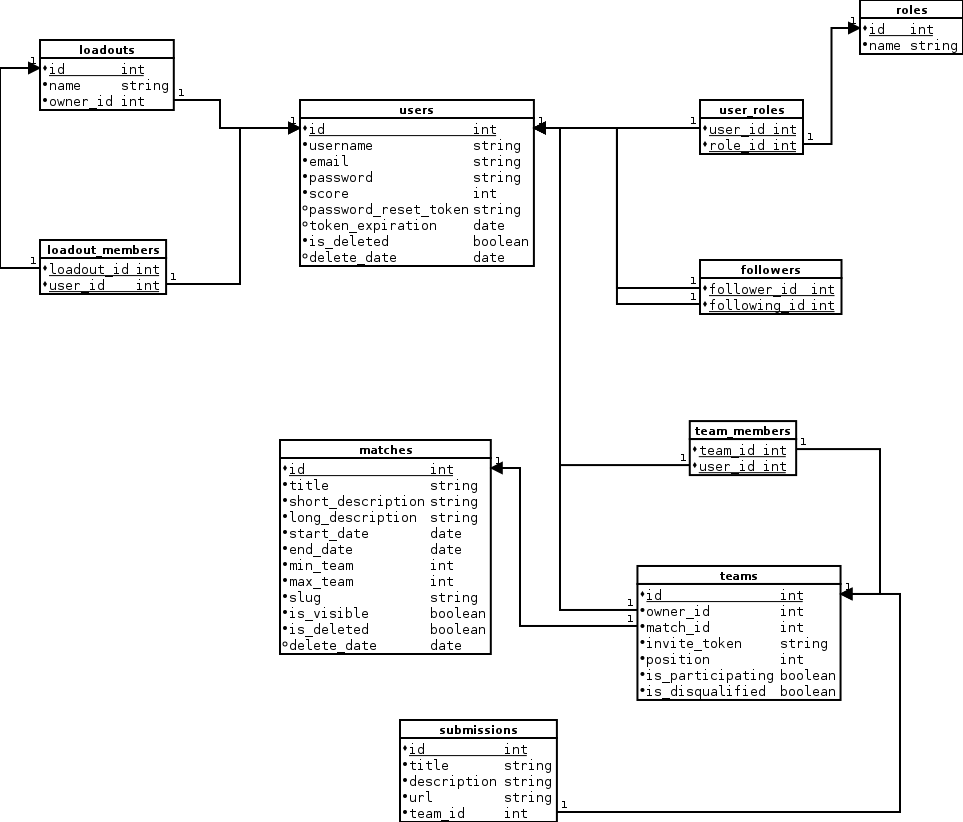
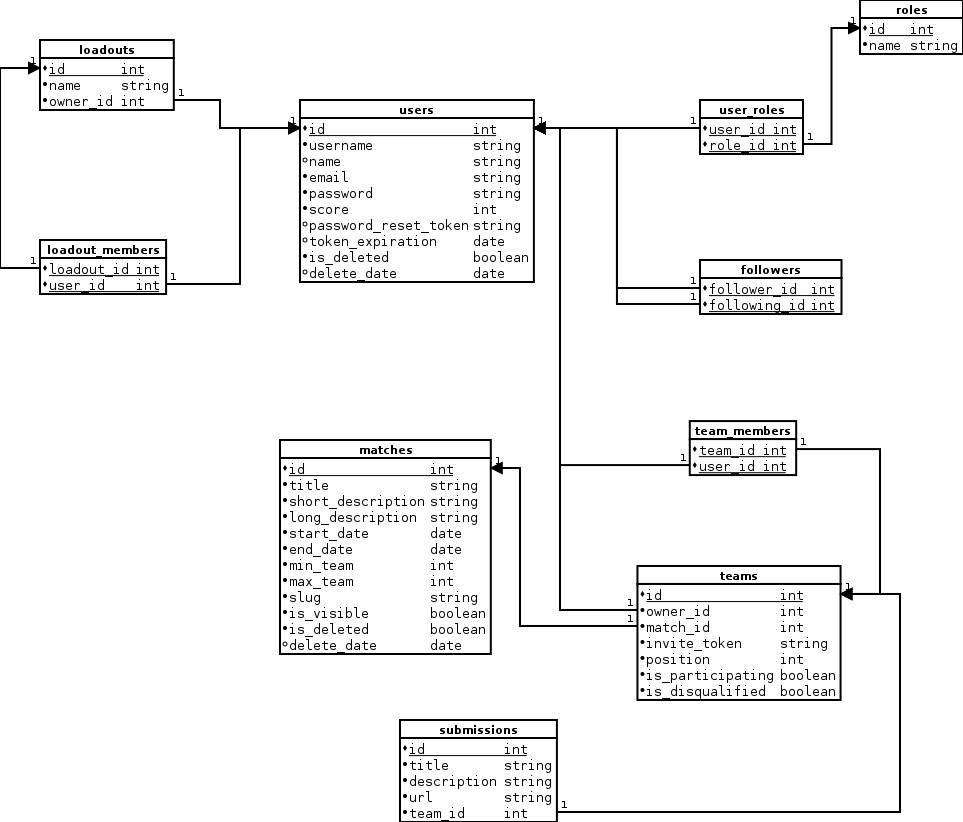
Generated gh-pages for commit 0f59139 Author: Rafael Medina <rafamedgar@gmail.com>
Specified JSend in API, added "name" to User model, now using PUT and DELETE requests

Changed region(s): [[0.3115, 0.1825, 0.5607, 0.365]]

diff --git a/searchindex.js b/searchindex.js
@@ -1,1 +1,1 @@
-Search.setIndex({envversion:50,filenames:["api/admin/index","api/admin/match_details","api/admin/match_update","api/admin/matches","api/index","api/matches/index","api/matches/match_details","api/matches/match_enter","api/matches/matches","api/users/friends","api/users/friends_accept","api/users/friends_add","api/users/index","api/users/login","api/users/profile","api/users/profile_edit","api/users/reset_password","api/users/reset_password_token","api/users/signup","api/users/user","api/users/user_matches","db_relations","index","models/index","models/loadout","models/match","models/role","models/submission","models/team","models/user"],objects:{"":{"/admin/matches":[3,0,1,"get--admin-matches"],"/admin/matches/(int: id)":[1,0,1,"get--admin-matches-(int- id)"],"/admin/matches/(int: id)/update":[2,1,1,"post--admin-matches-(int- id)-update"],"/login":[13,1,1,"post--login"],"/matches":[8,0,1,"get--matches"],"/matches/(int: id)":[6,0,1,"get--matches-(int- id)"],"/matches/(int: id)/enter":[7,1,1,"post--matches-(int- id)-enter"],"/profile":[14,0,1,"get--profile"],"/profile/edit":[15,1,1,"post--profile-edit"],"/profile/friends":[9,0,1,"get--profile-friends"],"/profile/friends/accept/(string: token)":[10,1,1,"post--profile-friends-accept-(string- token)"],"/profile/friends/add":[11,1,1,"post--profile-friends-add"],"/reset-password":[16,1,1,"post--reset-password"],"/reset-password/(string: token)":[17,1,1,"post--reset-password-(string- token)"],"/signup":[18,1,1,"post--signup"],"/users/(string: username)":[19,0,1,"get--users-(string- username)"],"/users/(string: username)/matches":[20,0,1,"get--users-(string- username)-matches"],Loadout:[24,2,1,""],Match:[25,2,1,""],Role:[26,2,1,""],Team:[28,2,1,""],User:[29,2,1,""]},Loadout:{id:[24,3,1,""],name:[24,3,1,""],owner_id:[24,3,1,""]},Match:{delete_date:[25,3,1,""],end_date:[25,3,1,""],id:[25,3,1,""],is_deleted:[25,3,1,""],is_visible:[25,3,1,""],long_description:[25,3,1,""],max_team:[25,3,1,""],min_team:[25,3,1,""],short_description:[25,3,1,""],slug:[25,3,1,""],start_date:[25,3,1,""],title:[25,3,1,""]},Role:{id:[26,3,1,""],name:[26,3,1,""]},Team:{description:[27,3,1,""],id:[28,3,1,""],invite_token:[28,3,1,""],is_disqualified:[28,3,1,""],is_participating:[28,3,1,""],match_id:[28,3,1,""],owner_id:[28,3,1,""],position:[28,3,1,""],team_id:[27,3,1,""],title:[27,3,1,""],url:[27,3,1,""]},User:{delete_date:[29,3,1,""],email:[29,3,1,""],id:[29,3,1,""],is_deleted:[29,3,1,""],password:[29,3,1,""],password_reset_token:[29,3,1,""],score:[29,3,1,""],token_expiration:[29,3,1,""],username:[29,3,1,""]}},objnames:{"0":["http","get","HTTP get"],"1":["http","post","HTTP post"],"2":["py","class","Python class"],"3":["py","attribute","Python attribute"]},objtypes:{"0":"http:get","1":"http:post","2":"py:class","3":"py:attribute"},terms:{"15t18":[1,2,3,6,8],"23t18":[1,2,3,6,8],"511z":[1,2,3,6,8],"boolean":[1,2,3,25,28,29],"case":28,"class":[24,25,26,27,28,29],"int":[1,2,3,6,7,8,14,19,20,24,25,26,27,28,29],"long":[1,2,6,25,29],"new":[10,11,15,17,18,29],"public":[1,2,3],"return":[1,2,3,6,8,9,13,15,19,20],"short":[6,25],"true":[2,28],"try":27,abl:28,about:11,accept:[1,2,3,4,6,7,8,9],accordingli:25,account:29,activ:[1,2,3,7,9,10,11,13,14,15],actual:25,add:[4,7],addit:[25,27],address:[15,29],administr:[25,26,29],advantag:25,after:[25,28],all:7,alreadi:[6,15,18],also:[17,18],although:[3,8],alwai:[3,8],ani:25,applic:[1,2,3,6,7,8,9,10,11,13,14,15,16,17,18,19,20],associ:11,automat:[18,28],avail:7,basic:27,been:[9,10,11,14,15,16,17,25,28,29],begin:25,behind:27,both:10,can:[11,15,16,25,28,29],certain:[26,29],chang:17,charact:29,check:[26,29],choos:24,code:[1,2,3,6,7,8,9,10,11,13,14,15,16,17,18,19,20,27],com:[1,2,3,6,7,8,9,10,11,13,14,15,16,17,18,19,20],commun:[15,28,29],complet:[1,6],conflict:[15,18],contain:[25,27],content:[1,2,3,6,7,8,9,10,11,13,14,15,16,17,18,19,20,22],contest:25,correctli:18,coupl:28,creat:[7,11,18,24,25,28],creation:28,creativ:27,credenti:13,current:[3,8,9,14,15],currentus:14,date:[1,2,3,6,8,16,25,29],delet:[1,2,3,6,8,19,20,25,29],delete_d:[25,29],demand:[7,29],desc:6,descript:[1,2,6,25,27],detail:[1,2,6,14,25],direct:24,disqualifi:28,doe:[1,2,3,8,10,11,16,17],done:29,each:[1,2,6,7,24,25,26,28],edit:[4,12],email:[15,16,18,29],empti:[3,6,8,9],enabl:[1,2,6],end:[1,2,3,6,8,25],end_dat:[1,2,3,6,8,25],endpoint:29,enjoi:24,enter:[4,5],error:7,evalu:25,evaluat:25,exampl:[1,2,3,6,7,8,9,10,11,13,14,15,16,17,18,19,20],except:7,exist:[10,11,14,15,16,17,18],expir:[16,29],fals:[1,3,13],flag:28,follow:[24,28,29],forbidden:[16,17],foreign:[24,27,28],forgot:16,found:[1,2,6,9,10,11,14,15,16,17,19,20],friend:4,frienda:[9,11],friendb:9,from:[13,17,25],full:25,gener:29,get:[1,3,6,8,9,10,11,14,15,17,19,20],give:28,given:[17,24,25,28],greater:28,hash:29,have:[1,2,3,7,8,29],host:[1,2,3,6,7,8,9,10,11,13,14,15,16,17,18,19,20],http:[1,2,3,6,7,8,9,10,11,13,14,15,16,17,18,19,20],idea:27,idealli:25,imag:9,includ:[27,28,29],index:22,indic:28,info:15,inform:[10,15,19,20,25,27],instruct:27,invis:8,invit:[7,11,24,28],invite_token:28,is_delet:[25,29],is_disqualifi:28,is_particip:28,is_vis:25,join:28,json:[1,2,3,6,7,8,9,10,11,13,14,15,16,17,18,19,20],jwt:[1,2,3,7,9,10,11,13,14,15,29],jwt_token:[1,2,3,7,9,10,11,13,14,15],kei:[24,25,26,27,28,29],languag:25,link:[16,24],list:[3,7,8,9],littl:25,loadout:[22,23],loadout_memb:24,log:[7,9,10,11,14,15,16,17],login:[4,12],long_descript:[6,25],mai:[3,8,9,24,27],main:25,mainli:28,manag:29,markdown:[1,2,6],match:0,match_id:28,max:25,max_team:[1,2,6,25,28],maximum:[1,2,6,25],mean:29,member:[7,28],meta:27,min_team:[1,2,6,25,28],minimum:[1,2,6,25,28],model:[16,22],modifi:2,modul:22,moment:25,more:25,must:[16,29],my_email:18,my_token:17,mypassword:[13,18],name:[14,15,19,24,26],need:7,newmail:15,note:29,notifi:11,number:[1,2,6,25,28],object:[1,2,3,6,7,8,9,10,11,13,14,15,16,17,18,19,20],obtain:[1,3,6,8,9,10,13,14,15,19,20,29],onc:28,onli:[25,28],only:7,oper:[26,29],oppos:25,order:[24,25],other:[24,28,29],over:28,own:27,owner:[24,28],owner_id:[24,28],page:22,paramet:[1,2,6,7,10,17,19,20],part:[7,25],particip:[1,2,6,7,20,25,28,29],password:[4,12,13],password_reset_token:[16,29],perform:[18,26,29],period:25,place:[3,8],platform:[25,29],png:9,point:[14,19,25],posit:28,post:[2,7,10,11,13,15,16,17,18],practic:[1,2,3,6,8,20],prepar:25,present:27,pretti:25,primari:[24,25,26,27,28,29],problem:25,process:[24,28],profil:4,program:25,project:27,provid:[15,25],publish:25,purpos:28,reach:28,real:[14,15,19],receiv:7,recogn:26,record:[1,2,6,9,10,11,14,15,16,17,18,19,20,24,25,28,29],regist:[25,29],reject:11,relationship:[24,28,29],remain:13,remember_m:13,remov:[9,10,11,14,15,16,17],repositori:27,repres:26,request:[1,2,3,6,7,8,9,10,11,13,14,15,16,17,18,19,20],requir:[1,2,3,13,15],reset:[4,12],resourc:13,respons:[1,2,3,6,8,9,10,11,13,14,15,16,17,18,19,20],rest:[13,24],restor:29,role:[1,2,3,22,23],rule:25,same:24,score:[14,19,25,29],search:22,see:[25,29],send:[16,24],sent:16,server:[13,18],session:[1,2,3,7,9,10,11,13,14,15,16,29],set:[16,28],short_descript:[6,25],should:[11,13,16,25,28],show:[19,20,25,27],shown:25,signup:[4,12],singl:28,site:27,slug:25,soft:[25,29],solut:25,sourc:27,special:28,specif:[17,25,28],specifi:18,start:[1,2,3,6,8,13,16,25],start_dat:[1,2,3,6,8,25],statu:[1,2,3,6,7,8,9,10,11,13,14,15,16,17,18,19,20],store:[15,29],string:[1,2,3,6,7,8,9,10,11,13,14,15,16,17,18,19,20,24,25,26,27,28,29],submiss:[22,23,25],submit:[25,27],successfulli:17,system:26,take:[3,8],taken:[3,8],task:26,team:[1,2,6,7,22,23,24,25,27],team_id:27,team_memb:28,technolog:25,templat:24,test:19,test_us:[13,18],testus:[19,20],than:28,thei:[11,24,28],them:24,thi:[1,2,6,11,17,25,26,27,28,29],three:25,through:29,time:[25,28,29],titl:[1,2,3,6,8,20,25,27],todo:7,token:[1,2,3,4,7,9],token_expir:29,topic:25,total:[14,19,29],type:[1,2,3,6,7,8,9,10,11,13,14,15,16,17,18,19,20],unauthor:[1,2,3,7,9,10,11,13,15],uniqu:[1,2,3,6,7,8,16,17,18,20,24,25,26,27,28,29],unless:6,until:25,updat:0,update:15,updated:2,url:[9,25,27],user1:7,user2:7,user3:7,user:[1,2,3,4,7,9,10,11],user_rol:29,usernam:[7,9,10,11,13,14,18,19,20,29],valid:[13,17],veri:25,view:25,visibl:[1,2,3,25],wai:11,when:[1,2,3,6,7,9,10,11,13,14,15,16,17,18,19,20,24,25,26,28,29],whether:[1,2,3,13,25,29],which:[10,13,16,19,20,28,29],without:7,work:[11,24]},titles:["Admin API","/admin/matches/&lt;id&gt;","/admin/matches/&lt;id&gt;/update","/admin/matches","LoC API","Matches API","/matches/&lt;id&gt;","/matches/&lt;id&gt;/enter","/matches","/profile/friends","/profile/friends/accept/&lt;token&gt;","/profile/friends/add","Users API","/login","/profile","/profile/edit","/reset-password","/reset-password/&lt;token&gt;","/signup","/users/&lt;user&gt;","/users/&lt;user&gt;/matches","Database relations","Welcome to LoC&#8217;s documentation!","LoC Models","Loadout","Match","Role","Submission","Team","User"],titleterms:{accept:10,add:11,admin:[0,1,2,3],api:[0,4,5,12],databas:21,document:22,edit:15,enter:7,friend:[9,10,11],indice:22,loadout:24,loc:[4,22,23],login:13,match:[1,2,3,5,6,7,8,20,25],model:23,password:[16,17],profil:[9,10,11,14,15],relat:21,reset:[16,17],role:26,signup:18,submiss:27,tabl:22,team:28,token:[10,17],updat:2,user:[12,19,20,29],welcom:22}})
+Search.setIndex({envversion:50,filenames:["api/admin/index","api/admin/match_details","api/admin/match_update","api/admin/matches","api/index","api/matches/index","api/matches/match_details","api/matches/match_enter","api/matches/matches","api/users/friends","api/users/friends_accept","api/users/friends_add","api/users/index","api/users/login","api/users/profile","api/users/reset_password","api/users/reset_password_token","api/users/signup","api/users/user","api/users/user_matches","db_relations","index","models/index","models/loadout","models/match","models/role","models/submission","models/team","models/user"],objects:{"":{"/admin/matches":[3,0,1,"get--admin-matches"],"/admin/matches/(int: id)":[1,0,1,"get--admin-matches-(int- id)"],"/admin/matches/(int: id)/update":[2,1,1,"post--admin-matches-(int- id)-update"],"/login":[13,1,1,"post--login"],"/matches":[8,0,1,"get--matches"],"/matches/(int: id)":[6,0,1,"get--matches-(int- id)"],"/matches/(int: id)/enter":[7,1,1,"post--matches-(int- id)-enter"],"/profile":[14,0,1,"get--profile"],"/profile/friends":[9,0,1,"get--profile-friends"],"/profile/friends/accept/(string: token)":[10,1,1,"post--profile-friends-accept-(string- token)"],"/profile/friends/add":[11,1,1,"post--profile-friends-add"],"/reset-password":[15,1,1,"post--reset-password"],"/reset-password/(string: token)":[16,1,1,"post--reset-password-(string- token)"],"/signup":[17,1,1,"post--signup"],"/users/(string: username)":[18,0,1,"get--users-(string- username)"],"/users/(string: username)/matches":[19,0,1,"get--users-(string- username)-matches"],Loadout:[23,2,1,""],Match:[24,2,1,""],Role:[25,2,1,""],Team:[27,2,1,""],User:[28,2,1,""]},Loadout:{id:[23,3,1,""],name:[23,3,1,""],owner_id:[23,3,1,""]},Match:{delete_date:[24,3,1,""],end_date:[24,3,1,""],id:[24,3,1,""],is_deleted:[24,3,1,""],is_visible:[24,3,1,""],long_description:[24,3,1,""],max_team:[24,3,1,""],min_team:[24,3,1,""],short_description:[24,3,1,""],slug:[24,3,1,""],start_date:[24,3,1,""],title:[24,3,1,""]},Role:{id:[25,3,1,""],name:[25,3,1,""]},Team:{description:[26,3,1,""],id:[27,3,1,""],invite_token:[27,3,1,""],is_disqualified:[27,3,1,""],is_participating:[27,3,1,""],match_id:[27,3,1,""],owner_id:[27,3,1,""],position:[27,3,1,""],team_id:[26,3,1,""],title:[26,3,1,""],url:[26,3,1,""]},User:{delete_date:[28,3,1,""],email:[28,3,1,""],id:[28,3,1,""],is_deleted:[28,3,1,""],name:[28,3,1,""],password:[28,3,1,""],password_reset_token:[28,3,1,""],score:[28,3,1,""],token_expiration:[28,3,1,""],username:[28,3,1,""]}},objnames:{"0":["http","get","HTTP get"],"1":["http","post","HTTP post"],"2":["py","class","Python class"],"3":["py","attribute","Python attribute"]},objtypes:{"0":"http:get","1":"http:post","2":"py:class","3":"py:attribute"},terms:{"15t18":[1,2,3,6,8],"23t18":[1,2,3,6,8],"511z":[1,2,3,6,8],"boolean":[1,2,3,24,27,28],"case":27,"class":[23,24,25,26,27,28],"default":4,"int":[1,2,3,6,7,8,14,18,19,23,24,25,26,27,28],"long":[1,2,6,24,28],"new":[10,11,16,17,28],"public":[1,2,3],"return":[1,2,3,4,6,8,9,13,18,19],"short":[6,24],"true":[2,27],"try":26,abl:27,about:11,accept:[1,2,3,4,6,7,8,9],accord:4,accordingli:24,account:28,activ:[1,2,3,7,9,10,11,13,14],actual:24,add:[4,7],addit:[24,26],address:28,administr:[24,25,28],advantag:24,after:[24,27],all:7,alreadi:[6,17],also:[16,17],although:[3,8],alwai:[3,8],ani:24,apart:4,applic:[1,2,3,6,7,8,9,10,11,13,14,15,16,17,18,19],associ:11,automat:[17,27],avail:7,basic:26,been:[9,10,11,14,15,16,24,27,28],begin:24,behind:26,both:10,can:[11,15,24,27,28],certain:[25,28],chang:16,charact:28,check:[25,28],choos:23,code:[1,2,3,4,6,7,8,9,10,11,13,14,15,16,17,18,19,26],com:[1,2,3,4,6,7,8,9,10,11,13,14,15,16,17,18,19],commun:[27,28],complet:[1,6],conflict:17,contain:[24,26],content:[1,2,3,6,7,8,9,10,11,13,14,15,16,17,18,19,21],contest:24,correctli:17,coupl:27,creat:[7,11,17,23,24,27],creation:27,creativ:26,credenti:13,current:[3,8,9,14],currentus:14,date:[1,2,3,6,8,15,24,28],delet:[1,2,3,6,8,18,19,24,28],delete_d:[24,28],demand:[7,28],desc:6,descript:[1,2,6,24,26],detail:[1,2,6,14,24],direct:23,displai:4,disqualifi:27,doe:[1,2,3,8,10,11,15,16],done:28,each:[1,2,4,6,7,23,24,25,27],email:[15,17,28],empti:[3,6,8,9],enabl:[1,2,6],end:[1,2,3,6,8,24],end_dat:[1,2,3,6,8,24],endpoint:[4,28],english:4,enjoi:23,enter:[4,5],error:[4,7],evalu:24,evaluat:24,exampl:[1,2,3,6,7,8,9,10,11,13,14,15,16,17,18,19],except:7,exist:[10,11,14,15,16,17],expir:[15,28],fail:4,fals:[1,3,13],flag:27,follow:[4,23,27,28],forbidden:[15,16],foreign:[23,26,27],forgot:15,found:[1,2,4,6,9,10,11,14,15,16,18,19],friend:4,frienda:[9,11],friendb:9,from:[4,13,16,24],full:24,gener:28,get:[1,3,6,8,9,10,11,14,16,18,19],give:27,given:[16,23,24,27],greater:27,hash:28,have:[1,2,3,7,8,28],header:4,host:[1,2,3,6,7,8,9,10,11,13,14,15,16,17,18,19],http:[1,2,3,4,6,7,8,9,10,11,13,14,15,16,17,18,19],idea:26,idealli:24,imag:9,includ:[26,27,28],index:21,indic:27,inform:[10,18,19,24,26],instruct:26,invis:8,invit:[7,11,23,27],invite_token:27,is_delet:[24,28],is_disqualifi:27,is_particip:27,is_vis:24,join:27,jsend:4,json:[1,2,3,6,7,8,9,10,11,13,14,15,16,17,18,19],jwt:[1,2,3,7,9,10,11,13,14,28],jwt_token:[1,2,3,7,9,10,11,13,14],kei:[23,24,25,26,27,28],lab:4,languag:24,link:[15,23],list:[3,7,8,9],littl:24,loadout:[21,22],loadout_memb:23,local:4,log:[7,9,10,11,14,15,16],login:[4,12],long_descript:[6,24],mai:[3,8,9,23,26],main:24,mainli:27,manag:28,markdown:[1,2,6],match:0,match_id:27,max:24,max_team:[1,2,6,24,27],maximum:[1,2,6,24],mean:28,member:[7,27],messag:4,meta:26,min_team:[1,2,6,24,27],minimum:[1,2,6,24,27],model:[15,21],modifi:2,modul:21,moment:24,more:24,must:[15,28],my_email:17,my_token:16,mypassword:[13,17],name:[14,18,23,25,28],need:[4,7],note:28,notifi:11,number:[1,2,6,24,27],object:[1,2,3,6,7,8,9,10,11,13,14,15,16,17,18,19],obtain:[1,3,6,8,9,10,13,14,18,19,28],omniti:4,onc:27,onli:[24,27],only:7,oper:[25,28],oppos:24,option:28,order:[23,24],other:[23,27,28],otherwis:4,over:27,own:26,owner:[23,27],owner_id:[23,27],page:21,paramet:[1,2,6,7,10,16,18,19],part:[7,24],particip:[1,2,6,7,19,24,27,28],password:[4,12,13],password_reset_token:[15,28],perform:[17,25,28],period:24,place:[3,8],platform:[24,28],png:9,point:[14,18,24],posit:27,possibl:4,post:[2,7,10,11,13,15,16,17],practic:[1,2,3,6,8,19],prepar:24,present:26,pretti:24,primari:[23,24,25,26,27,28],problem:24,process:[23,27],profil:4,program:24,project:26,provid:24,publish:24,purpos:27,reach:27,real:[14,18,28],receiv:7,recogn:25,record:[1,2,6,9,10,11,14,15,16,17,18,19,23,24,27,28],regist:[24,28],reject:11,relationship:[23,27,28],remain:13,remember_m:13,remov:[9,10,11,14,15,16],repositori:26,repres:25,request:[1,2,3,6,7,8,9,10,11,13,14,15,16,17,18,19],requir:[1,2,3,13],reset:[4,12],resourc:13,respons:[1,2,3,4,6,8,9,10,11,13,14,15,16,17,18,19],rest:[13,23],restor:28,role:[1,2,3,21,22],rule:24,same:23,score:[14,18,24,28],search:21,see:[24,28],send:[15,23],sent:15,server:[13,17],session:[1,2,3,7,9,10,11,13,14,15,28],set:[15,27],short_descript:[6,24],should:[11,13,15,24,27],show:[18,19,24,26],shown:24,signup:[4,12],singl:27,site:26,slug:24,soft:[24,28],solut:24,sourc:26,special:27,specif:[4,16,24,27],specifi:17,start:[1,2,3,6,8,13,15,24],start_dat:[1,2,3,6,8,24],statu:[1,2,3,4,6,7,8,9,10,11,13,14,15,16,17,18,19],store:28,string:[1,2,3,4,6,7,8,9,10,11,13,14,15,16,17,18,19,23,24,25,26,27,28],submiss:[21,22,24],submit:[24,26],success:4,successfulli:16,system:25,take:[3,8],taken:[3,8],task:25,team:[1,2,6,7,21,22,23,24,26],team_id:26,team_memb:27,technolog:24,templat:23,test:18,test_us:[13,17],testus:[18,19],than:27,thei:[11,23,27],them:23,thi:[1,2,6,11,16,24,25,26,27,28],three:24,through:28,time:[24,27,28],titl:[1,2,3,6,8,19,24,26],todo:7,token:[1,2,3,4,7,9],token_expir:28,topic:24,total:[14,18,28],type:[1,2,3,6,7,8,9,10,11,13,14,15,16,17,18,19],unauthor:[1,2,3,7,9,10,11,13],uniqu:[1,2,3,6,7,8,15,16,17,19,23,24,25,26,27,28],unless:6,until:24,updat:0,updated:2,url:[9,24,26],user1:7,user2:7,user3:7,user:[1,2,3,4,7,9,10,11],user_rol:28,usernam:[7,9,10,11,13,14,17,18,19,28],valid:[13,16],veri:24,view:24,visibl:[1,2,3,24],wai:11,when:[1,2,3,4,6,7,9,10,11,13,14,15,16,17,18,19,23,24,25,27,28],whether:[1,2,3,13,24,28],which:[10,13,15,18,19,27,28],without:7,work:[11,23]},titles:["Admin API","/admin/matches/&lt;id&gt;","/admin/matches/&lt;id&gt;/update","/admin/matches","LoC API","Matches API","/matches/&lt;id&gt;","/matches/&lt;id&gt;/enter","/matches","/profile/friends","/profile/friends/accept/&lt;token&gt;","/profile/friends/add","Users API","/login","/profile","/reset-password","/reset-password/&lt;token&gt;","/signup","/users/&lt;user&gt;","/users/&lt;user&gt;/matches","Database relations","Welcome to LoC&#8217;s documentation!","LoC Models","Loadout","Match","Role","Submission","Team","User"],titleterms:{accept:10,add:11,admin:[0,1,2,3],api:[0,4,5,12],databas:20,document:21,enter:7,friend:[9,10,11],indice:21,loadout:23,loc:[4,21,22],login:13,match:[1,2,3,5,6,7,8,19,24],model:22,password:[15,16],profil:[9,10,11,14],relat:20,reset:[15,16],role:25,signup:17,submiss:26,tabl:21,team:27,token:[10,16],updat:2,user:[12,18,19,28],welcom:21}})

diff --git a/api/index.html b/api/index.html
@@ -43,6 +43,13 @@
             
   <div class="section" id="loc-api">
 <h1>LoC API<a class="headerlink" href="#loc-api" title="Permalink to this headline">¶</a></h1>
+<p>The API follows the JSend specification found at
+<a class="reference external" href="https://labs.omniti.com/labs/jsend">https://labs.omniti.com/labs/jsend</a> . Apart from the HTTP status code, each
+endpoint will return a <em>success</em>, <em>fail</em> or <em>error</em> response according to the
+specification.</p>
+<p>If a message needs to be returned, the string will be localized according to
+the HTTP locale header when possible. Otherwise, the message will be displayed
+in <strong>English</strong> by default.</p>
 <div class="toctree-wrapper compound">
 <ul>
 <li class="toctree-l1"><a class="reference internal" href="admin/index.html">Admin API</a><ul>
@@ -60,7 +67,6 @@
 <li class="toctree-l1"><a class="reference internal" href="users/index.html">Users API</a><ul>
 <li class="toctree-l2"><a class="reference internal" href="users/login.html">/login</a></li>
 <li class="toctree-l2"><a class="reference internal" href="users/profile.html">/profile</a></li>
-<li class="toctree-l2"><a class="reference internal" href="users/profile_edit.html">/profile/edit</a></li>
 <li class="toctree-l2"><a class="reference internal" href="users/friends.html">/profile/friends</a></li>
 <li class="toctree-l2"><a class="reference internal" href="users/friends_add.html">/profile/friends/add</a></li>
 <li class="toctree-l2"><a class="reference internal" href="users/friends_accept.html">/profile/friends/accept/&lt;token&gt;</a></li>

diff --git a/api/users/friends.html b/api/users/friends.html
@@ -26,7 +26,7 @@
     <link rel="top" title="LoC 0.0.1 documentation" href="../../index.html" />
     <link rel="up" title="Users API" href="index.html" />
     <link rel="next" title="/profile/friends/add" href="friends_add.html" />
-    <link rel="prev" title="/profile/edit" href="profile_edit.html" />
+    <link rel="prev" title="/profile" href="profile.html" />
    
   <link rel="stylesheet" href="../../_static/custom.css" type="text/css" />
   
@@ -116,7 +116,7 @@
   <li><a href="../../index.html">Documentation overview</a><ul>
   <li><a href="../index.html">LoC API</a><ul>
   <li><a href="index.html">Users API</a><ul>
-      <li>Previous: <a href="profile_edit.html" title="previous chapter">/profile/edit</a></li>
+      <li>Previous: <a href="profile.html" title="previous chapter">/profile</a></li>
       <li>Next: <a href="friends_add.html" title="next chapter">/profile/friends/add</a></li>
   </ul></li>
   </ul></li>

diff --git a/api/users/profile.html b/api/users/profile.html
@@ -25,7 +25,7 @@
     <script type="text/javascript" src="../../_static/doctools.js"></script>
     <link rel="top" title="LoC 0.0.1 documentation" href="../../index.html" />
     <link rel="up" title="Users API" href="index.html" />
-    <link rel="next" title="/profile/edit" href="profile_edit.html" />
+    <link rel="next" title="/profile/friends" href="friends.html" />
     <link rel="prev" title="/login" href="login.html" />
    
   <link rel="stylesheet" href="../../_static/custom.css" type="text/css" />
@@ -112,7 +112,7 @@
   <li><a href="../index.html">LoC API</a><ul>
   <li><a href="index.html">Users API</a><ul>
       <li>Previous: <a href="login.html" title="previous chapter">/login</a></li>
-      <li>Next: <a href="profile_edit.html" title="next chapter">/profile/edit</a></li>
+      <li>Next: <a href="friends.html" title="next chapter">/profile/friends</a></li>
   </ul></li>
   </ul></li>
   </ul></li>

diff --git a/api/users/index.html b/api/users/index.html
@@ -48,7 +48,6 @@
 <ul>
 <li class="toctree-l1"><a class="reference internal" href="login.html">/login</a></li>
 <li class="toctree-l1"><a class="reference internal" href="profile.html">/profile</a></li>
-<li class="toctree-l1"><a class="reference internal" href="profile_edit.html">/profile/edit</a></li>
 <li class="toctree-l1"><a class="reference internal" href="friends.html">/profile/friends</a></li>
 <li class="toctree-l1"><a class="reference internal" href="friends_add.html">/profile/friends/add</a></li>
 <li class="toctree-l1"><a class="reference internal" href="friends_accept.html">/profile/friends/accept/&lt;token&gt;</a></li>

diff --git a/http-routingtable.html b/http-routingtable.html
@@ -115,17 +115,7 @@
      <tr>
        <td></td>
        <td>
-       <a href="api/users/profile_edit.html#get--profile-edit"><code class="xref">GET /profile/edit</code></a></td><td>
-       <em></em></td></tr>
-     <tr>
-       <td></td>
-       <td>
        <a href="api/users/friends.html#get--profile-friends"><code class="xref">GET /profile/friends</code></a></td><td>
-       <em></em></td></tr>
-     <tr>
-       <td></td>
-       <td>
-       <a href="api/users/profile_edit.html#post--profile-edit"><code class="xref">POST /profile/edit</code></a></td><td>
        <em></em></td></tr>
      <tr>
        <td></td>

diff --git a/models/user.html b/models/user.html
@@ -70,6 +70,13 @@ relationship.</p>
 </dd></dl>
 
 <dl class="attribute">
+<dt id="User.name">
+<code class="descname">name</code><a class="headerlink" href="#User.name" title="Permalink to this definition">¶</a></dt>
+<dd><p><em>string</em></p>
+<p>Real name of the User (optional)</p>
+</dd></dl>
+
+<dl class="attribute">
 <dt id="User.email">
 <code class="descname">email</code><a class="headerlink" href="#User.email" title="Permalink to this definition">¶</a></dt>
 <dd><p><em>string</em></p>

diff --git a/genindex.html b/genindex.html
@@ -204,6 +204,10 @@
   <dt><a href="models/role.html#Role.name">(Role attribute)</a>
   </dt>
 
+        
+  <dt><a href="models/user.html#User.name">(User attribute)</a>
+  </dt>
+
       </dl></dd>
   </dl></td>
 </tr></table>
